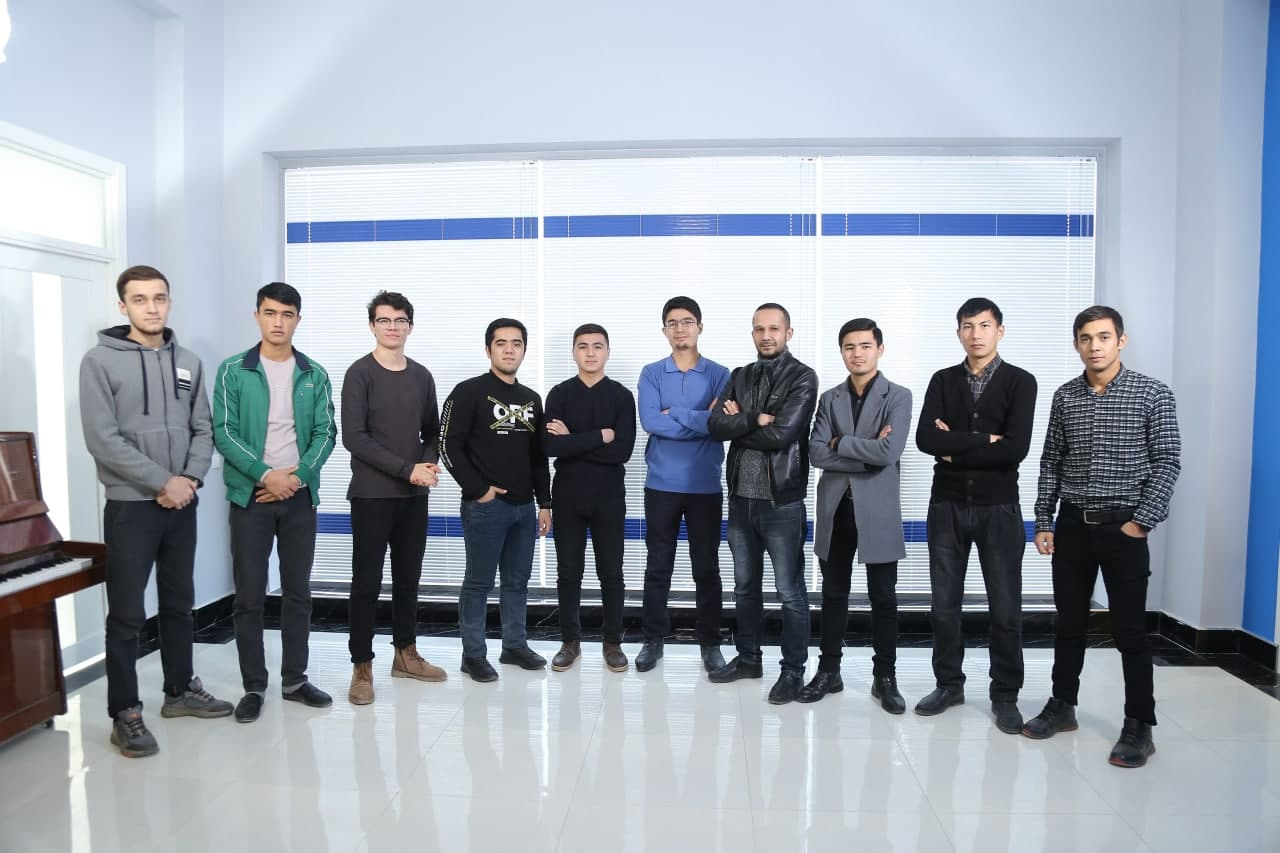
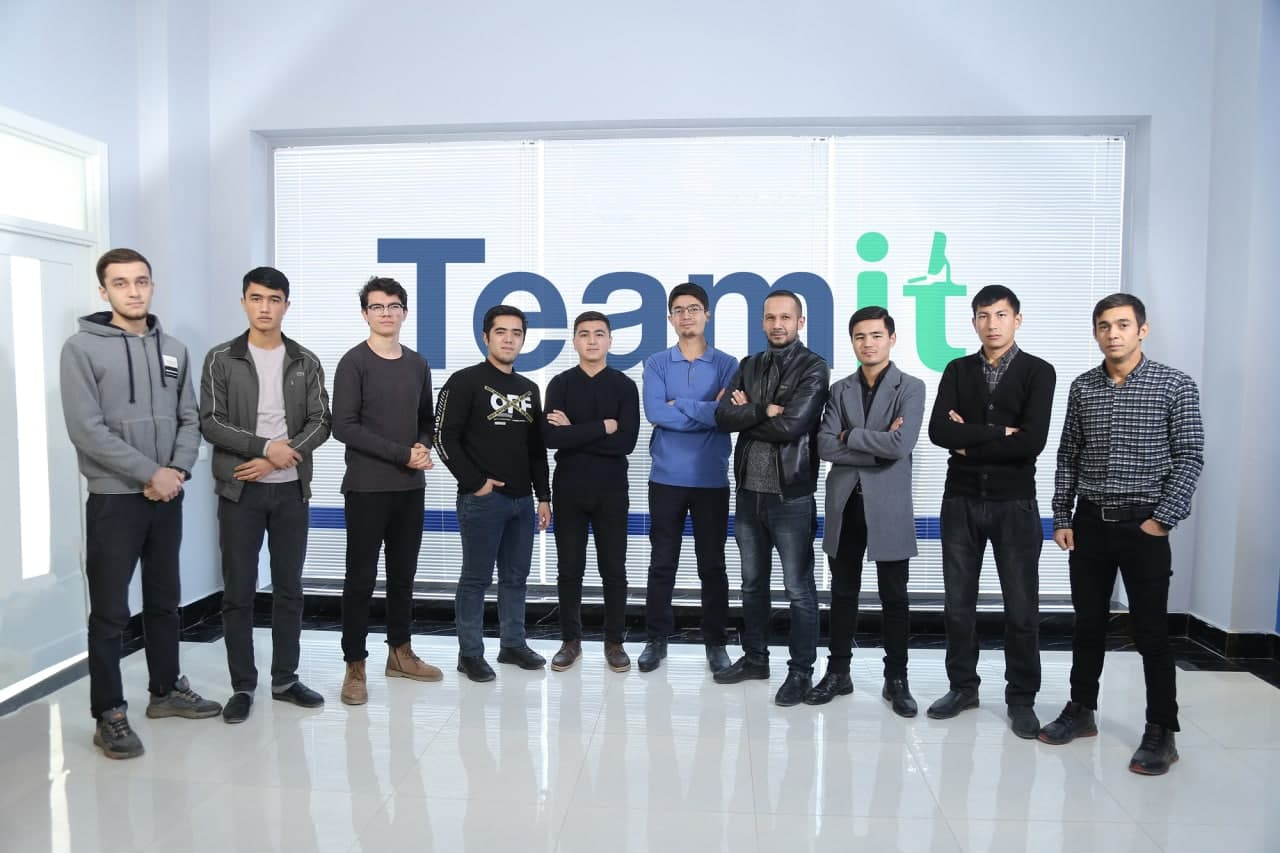
text change

diff --git a/components/Courses.js b/components/Courses.js
@@ -32,14 +32,14 @@ const Courses = () => {
             <div className={styles.listItem_title}>Video Montaj</div>
             <div className={styles.listItem_tags}>
               <span>After Effects</span>
-              <span>PremierPro</span>
+              <span>Premiere Pro</span>
             </div>
           </a>
         </div>
         <div className={styles.listItem}>
           <a href="/courses/1">
             <img src="/courses/course5.jpg" alt="" />
-            <div className={styles.listItem_title}>SMM va Kopirayting</div>
+            <div className={styles.listItem_title}>SMM</div>
             <div className={styles.listItem_tags}>
               <span>Facebook</span> <span>Instagram</span> <span>Telegram</span>
               <span>TikTok</span>
@@ -63,19 +63,16 @@ const Courses = () => {
             <div className={styles.listItem_title}>Ingliz tili</div>
             <div className={styles.listItem_tags}>
               <span>IELTS</span>
-              <span>Advanced</span> <span>Intermediate</span>
-              <span>Pre-Intermediate</span>
-              <span>Beginner</span>
             </div>
           </a>
         </div>
         <div className={styles.listItem}>
           <a href="/courses/2">
             <img src="/courses/course2.jpg" alt="" />
-            <div className={styles.listItem_title}>Grafik Dizayni</div>
+            <div className={styles.listItem_title}>Grafik Dizayn</div>
             <div className={styles.listItem_tags}>
               <span>Adobe Illustrator</span>
-              <span>Photoshop</span>
+              <span>Photoshop</span> <span>CorelDRAW</span>
             </div>
           </a>
         </div>
@@ -85,8 +82,8 @@ const Courses = () => {
             <div className={styles.listItem_title}>Arxitektura</div>
             <div className={styles.listItem_tags}>
               <span>AutoCAD</span>
-              <span>2D</span>
-              <span>3D</span>
+
+              <span>3DS MAX</span>
             </div>
           </a>
         </div>

diff --git a/components/Footer.js b/components/Footer.js
@@ -44,11 +44,13 @@ const Footer = ({ dark }) => {
           <div className={styles.list_item}>
             <a href="/#contact">Vakansiya</a>
           </div>
-          <Button
-            link="https://forms.gle/Y2MjSG9By8sxwd4WA"
-            target={"_blank"}
-            text="Kurslarga yoziling"
-          />
+          <div className={styles.list_item_btn}>
+            <Button
+              link="https://forms.gle/Y2MjSG9By8sxwd4WA"
+              target={"_blank"}
+              text="Kurslarga yoziling"
+            />
+          </div>
         </div>
       </div>
       <div className={styles.copyright}>

diff --git a/styles/components/Footer.module.css b/styles/components/Footer.module.css
@@ -56,6 +56,11 @@
   z-index: 2;
   /* padding: 10px; */
 }
+@media (max-width: 850px) {
+  .list {
+    justify-content: center;
+  }
+}
 
 .copyright {
   padding: 20px 15%;
@@ -80,6 +85,7 @@
 }
 
 .list_item,
+.list_item_btn,
 .list_item a {
   display: flex;
   justify-content: center;
@@ -90,6 +96,7 @@
   font-weight: 500;
   transition: all 0.5s ease-in-out;
 }
+
 .list_item a {
   font-weight: 600;
   color: var(--c-dark-gray);

diff --git a/components/Team.js b/components/Team.js
@@ -5,7 +5,7 @@ const Team = () => {
     <div className={`${styles.team} myPad`} id="team">
       <div className="title">Biz Teamit Jamoasi!</div>
       {/* <div className={styles.team_text}>Teamit Jamoasi </div> */}
-      <img src="/IMG_9380.JPG" alt="" />
+      <img src="/teamit.jpg" alt="" />
       <Button link="team" text="Batafsil" />
     </div>
   )

diff --git a/components/TeamLayout.js b/components/TeamLayout.js
@@ -5,7 +5,7 @@ const TeamLayout = () => {
     <>
       <div className={`${styles.team} myPad`} id="team">
         <div className="title">Biz Teamit Jamoasi!</div>
-        <img src="/IMG_9380.JPG" alt="" />
+        <img src="/teamit.jpg" alt="" />
       </div>
       <div className={`${styles.list} myPad`}>
         <div className={styles.listItem}>
